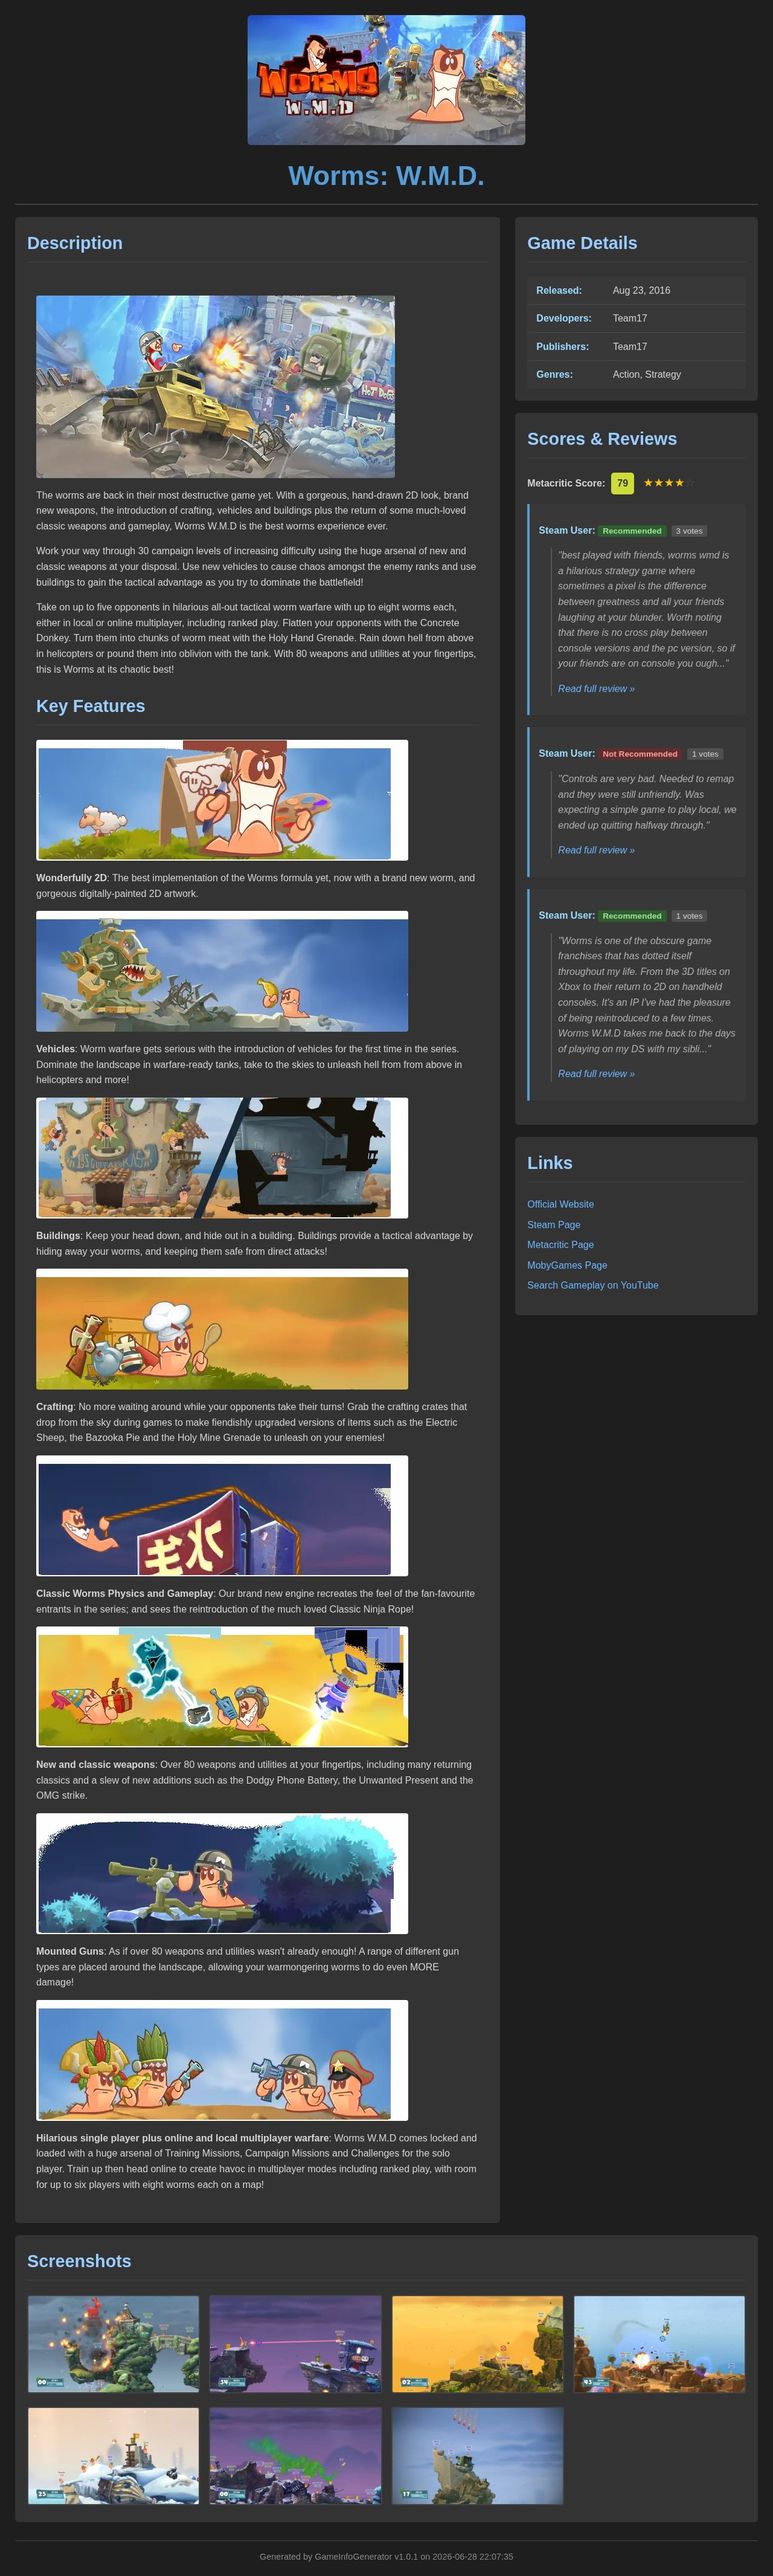
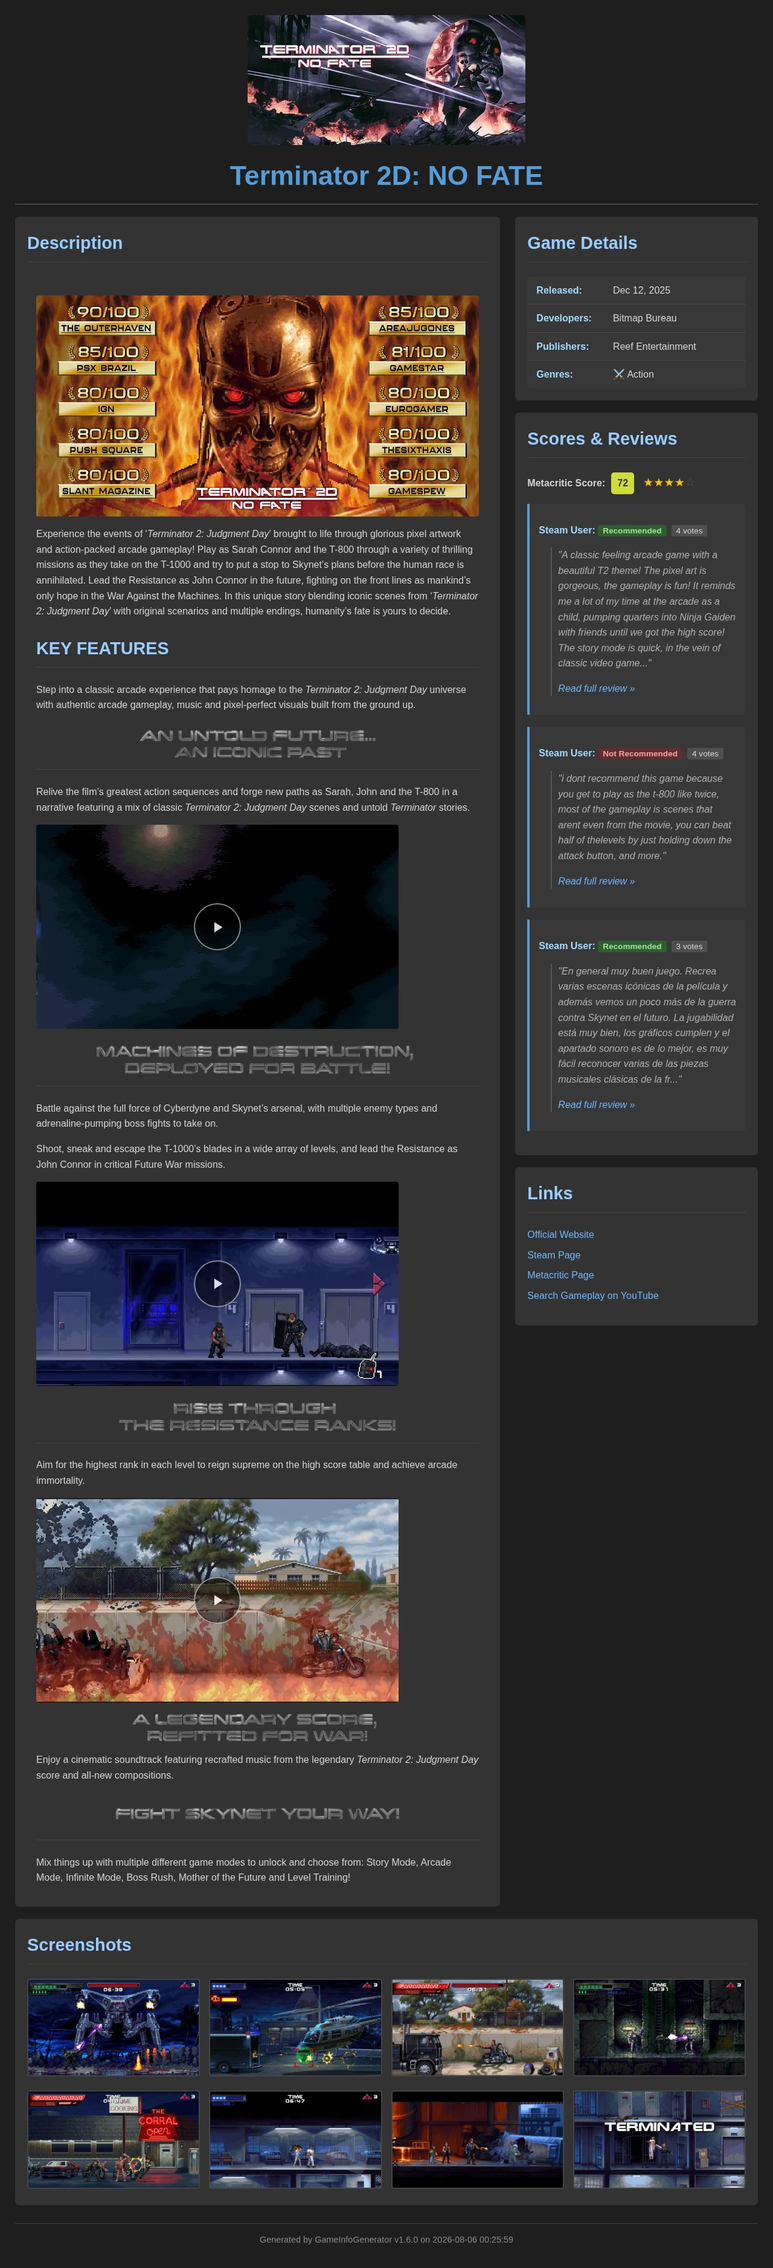
Refresh the README screenshots on the 1.7.0 pages
The captures dated from 1.1.0 and showed none of what the last releases
added. The film page is now Snowpiercer, for its extras; the game page is
Terminator 2D, whose store description carries both the flattened section
lettering and the centred play overlay. Video stills come from the files
themselves, as the default does.

CLAUDE.md described the screenshot sources the wrong way round: under
`auto`, FFmpeg frames come first and TMDB backdrops are the fallback.

diff --git a/CLAUDE.md b/CLAUDE.md
@@ -55,7 +55,7 @@ The package exposes two independent entry points (`gen-game-info`, `gen-video-in
 - `game/processing.py::_merge_data()` handles priority: first non-empty value wins, except `name` and `description_html` prefer the longer string.
 - Images in Steam's `detailed_description` HTML are rewritten to base64 inline by `_download_and_rewrite_embedded_images()`.
 - Screenshots are fetched concurrently via `asyncio.gather` then encoded sequentially.
-- Video stills: `video/processing.py::_resolve_screenshots()` picks the source per `--screenshot-source` — online TMDB backdrops (`fetch_tmdb_stills`) first, then ffmpeg on the local file as fallback (`auto`). `online`/`ffmpeg`/`off` force the behaviour. Online stills work without a local file (name-only generation).
+- Video stills: `video/processing.py::_resolve_screenshots()` picks the source per `--screenshot-source` — under `auto` ffmpeg frames from the local file come first, TMDB backdrops (`fetch_tmdb_stills`) only when there is no file or it yields nothing. `online`/`ffmpeg`/`off` force the behaviour. Online stills are what makes a page possible from a name alone.
 
 ### External APIs
 
@@ -65,12 +65,12 @@ The package exposes two independent entry points (`gen-game-info`, `gen-video-in
 | Metacritic | HTML scraping of `/game/{slug}/` (score via JSON-LD) |
 | MobyGames | HTML scraping of search results then game page |
 | Wikidata | Resolves a movie's IMDb id (CirrusSearch full-text + label search) |
-| TMDB | `api.themoviedb.org/3` — `/find/{imdb_id}` maps the Wikidata-resolved IMDb id, then `/movie/{id}?append_to_response=credits` (metadata + cast) and `/movie|tv/{id}/images` (backdrops = the default screenshot source). **Requires `TMDB_API_KEY`** (v3 key or v4 Bearer token, auto-detected; `--tmdb-api-key` overrides the env var by exporting it); without it movie pages are partial |
+| TMDB | `api.themoviedb.org/3` — `/find/{imdb_id}` maps the Wikidata-resolved IMDb id, then `/movie/{id}?append_to_response=credits` (metadata + cast) and `/movie|tv/{id}/images` (backdrops = the screenshot fallback when there is no local file). **Requires `TMDB_API_KEY`** (v3 key or v4 Bearer token, auto-detected; `--tmdb-api-key` overrides the env var by exporting it); without it movie pages are partial |
 | TVmaze | Series + all episodes + cast in one `singlesearch` call |
 | Rotten Tomatoes | Slug `m/{slug}` (movies) or `/tv/{slug}` (series) resolved by a direct GET — no Google scraping |
 | Wikipedia | `wikipedia` Python library (sync, run in executor) |
 | YouTube | Scraping `ytInitialData` JSON from search results page |
-| FFmpeg | `ffmpeg-python` for screenshot extraction — now the **fallback** when a title has no online stills (`--screenshot-source` controls this; optional, skipped with a warning if not in PATH). `ffprobe` also fills the file-details section (resolution, audio/subtitle tracks with flags via `utils.lang_flag`; per-episode for series, union in the series details) |
+| FFmpeg | `ffmpeg-python` for screenshot extraction — the **default** source under `auto`, TMDB backdrops taking over when there is no local file (`--screenshot-source` controls this; optional, skipped with a warning if not in PATH). `ffprobe` also fills the file-details section (resolution, audio/subtitle tracks with flags via `utils.lang_flag`; per-episode for series, union in the series details) |
 
 ### Template inheritance
 
